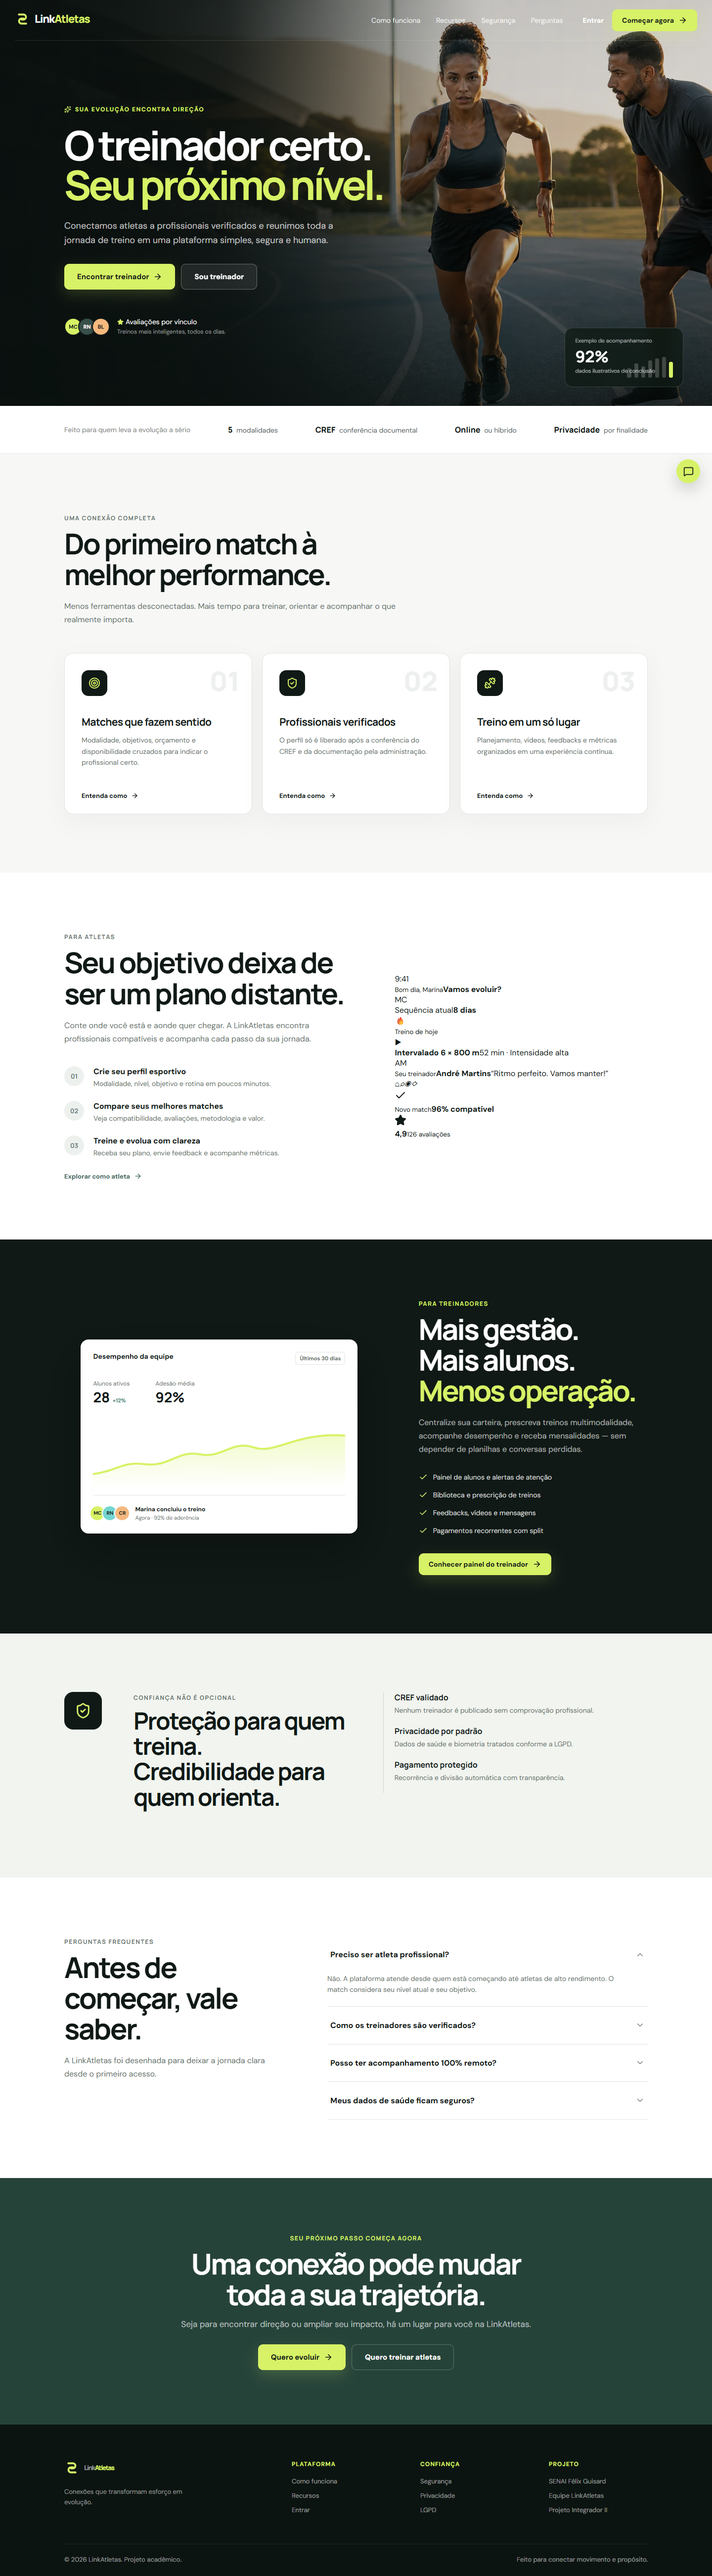
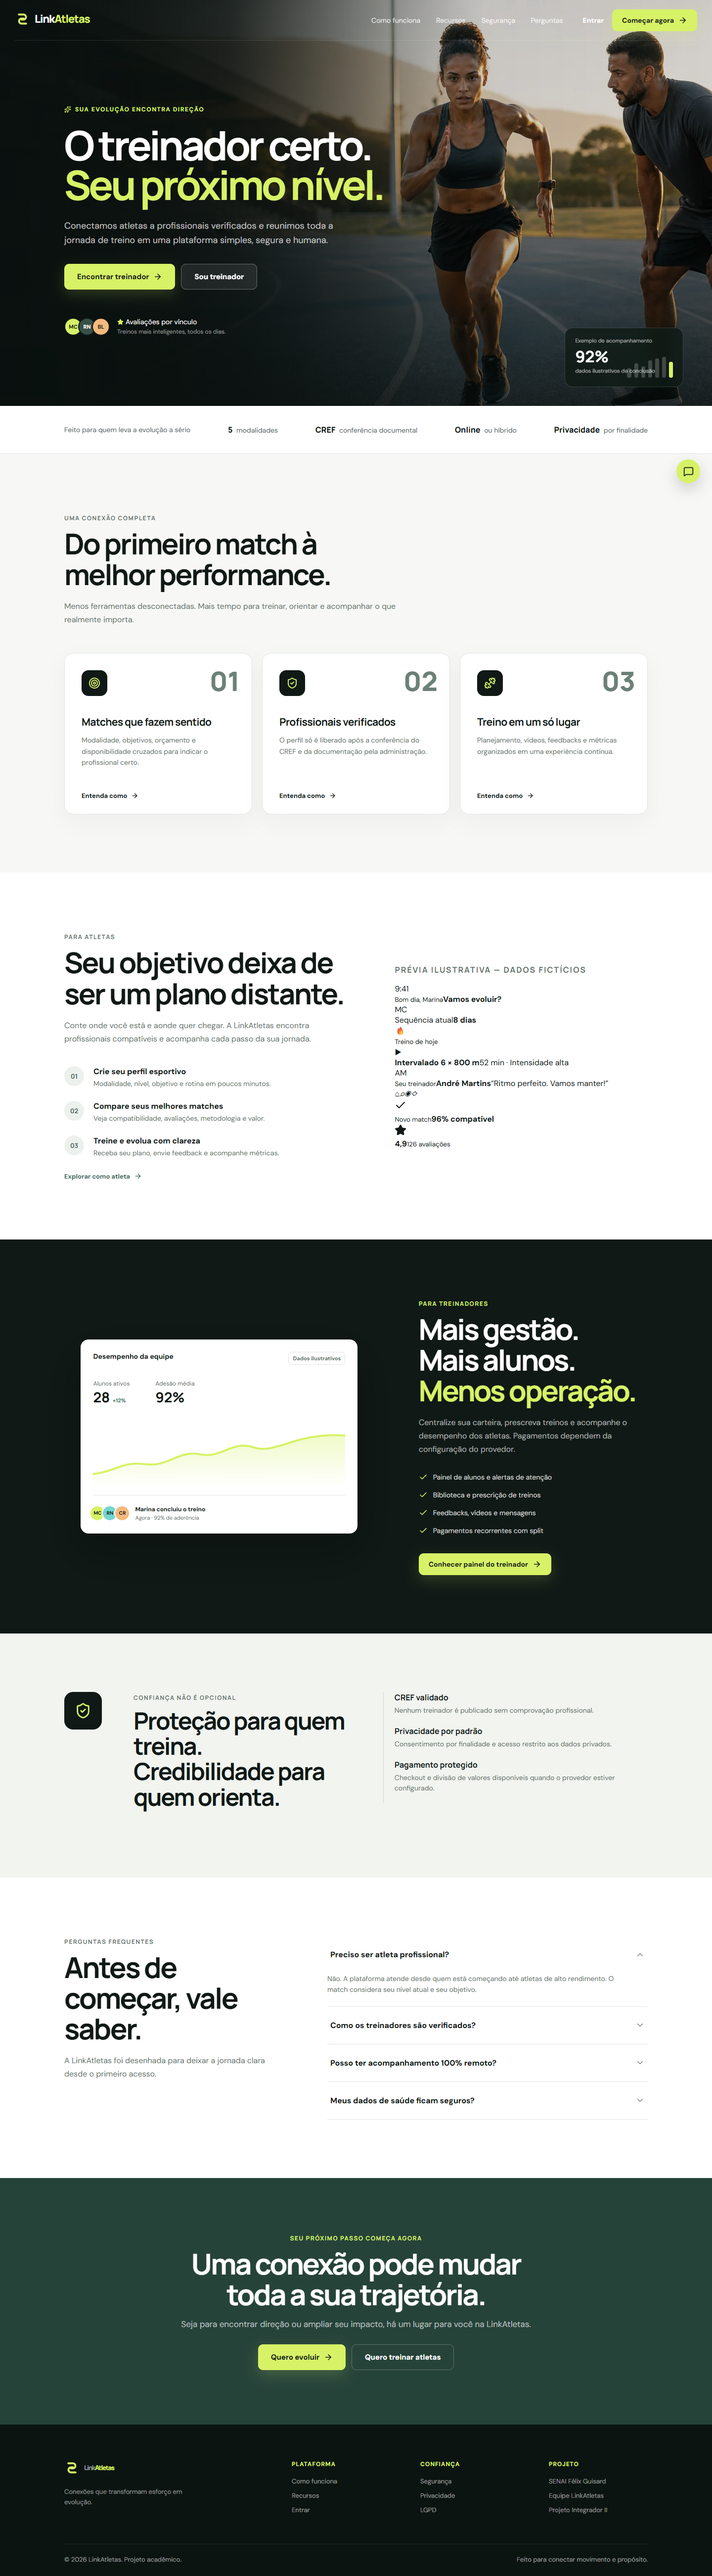
melhora o contraste da pagina inicial e registra a verificacao de acessibilidade

diff --git a/src/styles.css b/src/styles.css
@@ -2036,7 +2036,12 @@ h1, h2, h3, h4, h5, .brand { font-family: 'Manrope', sans-serif; }
 .toast button { border: 0; background: transparent; color: rgba(255,255,255,.6); cursor: pointer; }
 
 /* Responsive adjustments */
+.landing .proof-strip span { color: #53625d; }
+.landing .benefit-card__number { color: #6b8177; }
+.landing .steps li > b { color: #48645a; }
+.landing .mini-stats i { color: #33735e; }
 @media (max-width: 900px) {
+  .landing .public-header { width: 100%; padding-inline: 22px; background: rgba(10, 17, 15, .9); }
   .landing .public-header nav { display: none; }
   .landing .public-header nav.open { display: grid; position: absolute; top: 82px; left: 0; right: 0; margin: 0; padding: 18px; gap: 0; background: var(--ink); border: 1px solid var(--line); border-radius: 12px; }
   .landing .public-header nav a { display: flex; align-items: center; min-height: 44px; }
